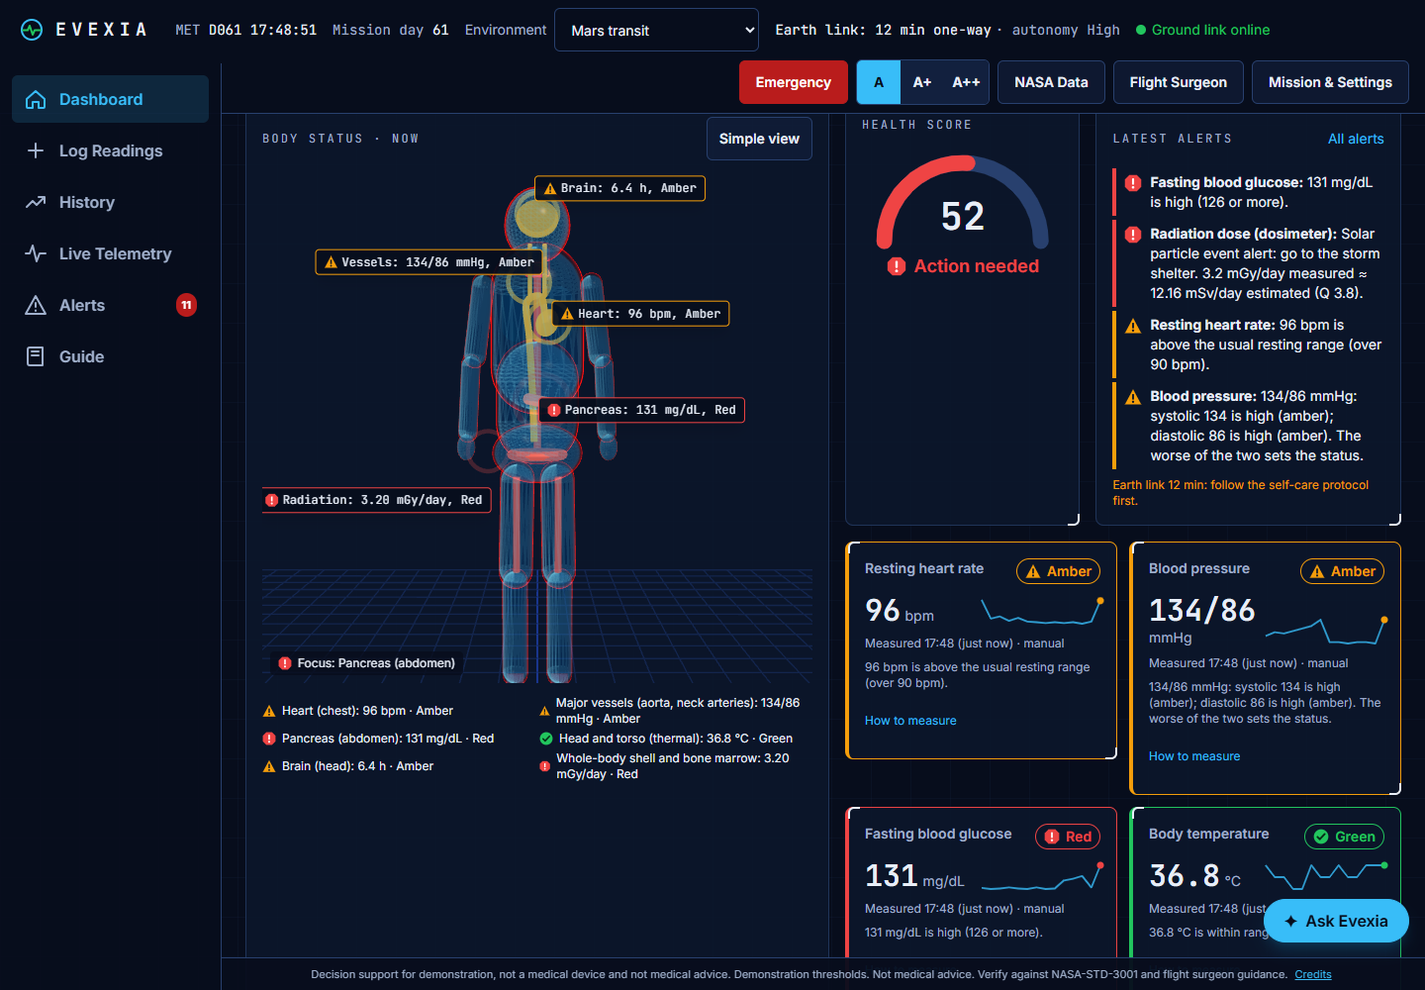
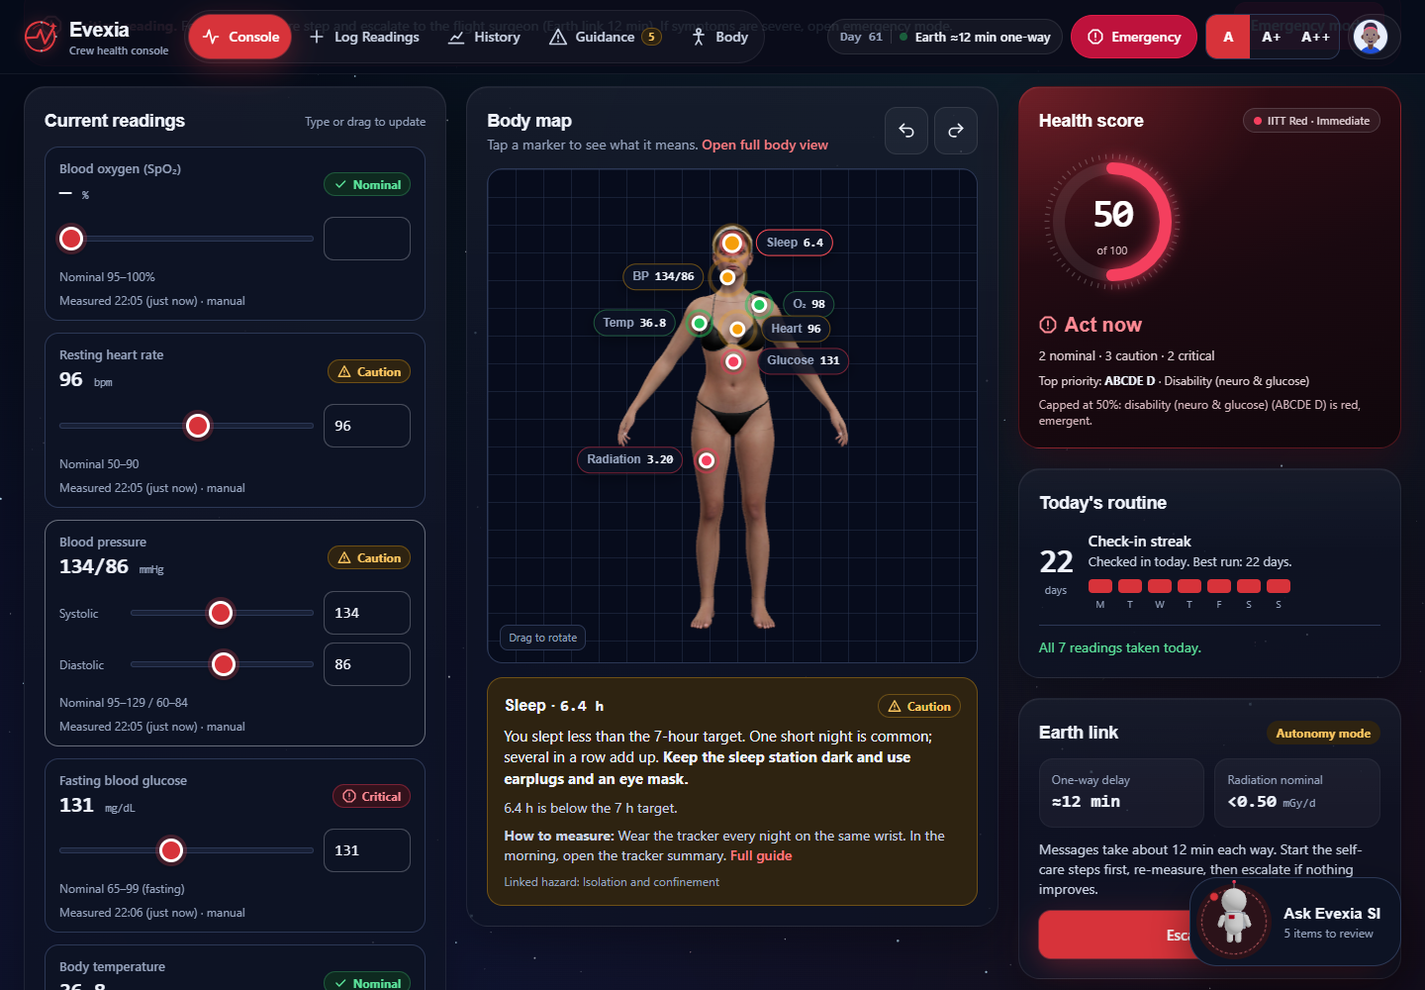
Update README with store-and-forward comms and refresh all UI screenshots

diff --git a/e2e/screenshots.spec.js b/e2e/screenshots.spec.js
@@ -1,5 +1,5 @@
 // Generates README screenshots into docs/screenshots. Run with: SCREENSHOTS=1 npx playwright test e2e/screenshots.spec.js
-import { test, expect, logReadings, GREEN } from './fixtures.js';
+import { test, expect, logReadings, signIn, signOut, GREEN } from './fixtures.js';
 
 const DIR = 'docs/screenshots';
 test.skip(!process.env.SCREENSHOTS, 'Set SCREENSHOTS=1 to regenerate README screenshots');
@@ -7,10 +7,10 @@ test.use({ viewport: { width: 1440, height: 1000 } });
 
 async function settleBody(page) {
   await expect(page.getByTestId('body-3d').locator('canvas')).toBeVisible({ timeout: 20_000 });
-  await page.waitForTimeout(7000); // camera focus eases in and back out
+  await page.waitForTimeout(5000); // camera focus eases in and back out
   await page.evaluate(() => {
     const el = document.querySelector('[data-testid="body-container"]');
-    window.scrollTo(0, el.getBoundingClientRect().top + window.scrollY - 170);
+    if (el) window.scrollTo(0, el.getBoundingClientRect().top + window.scrollY - 170);
   });
   await page.waitForTimeout(400);
 }
@@ -24,6 +24,7 @@ async function pushTelemetry(page, hr = 74) {
 }
 
 test('dashboard amber and red', async ({ page }) => {
+  await signIn(page, 'okafor');
   await logReadings(page, { ...GREEN, hr: 96, sleep: 6.4, sys: 134, dia: 86, radiation: 0.47 }, { notes: 'Morning check. Heavy workload; slept badly.' });
   await settleBody(page);
   await page.screenshot({ path: `${DIR}/dashboard-amber.png` });
@@ -32,7 +33,16 @@ test('dashboard amber and red', async ({ page }) => {
   await page.screenshot({ path: `${DIR}/dashboard-red.png` });
 });
 
+test('comms earth link', async ({ page }) => {
+  await signIn(page, 'okafor');
+  await page.goto('/comms');
+  await expect(page.getByTestId('link-panel')).toBeVisible();
+  await page.waitForTimeout(800);
+  await page.screenshot({ path: `${DIR}/comms.png` });
+});
+
 test('log readings', async ({ page }) => {
+  await signIn(page, 'okafor');
   await page.goto('/log');
   await page.getByTestId('input-hr').fill('96');
   await page.getByTestId('input-glucose').fill('130');
@@ -41,13 +51,25 @@ test('log readings', async ({ page }) => {
   await page.screenshot({ path: `${DIR}/log-readings.png` });
 });
 
-test('history', async ({ page }) => {
+test('history with redesigned log table', async ({ page }) => {
+  await signIn(page, 'okafor');
   await page.goto('/history');
+  await expect(page.getByTestId('log-table')).toBeVisible();
   await page.waitForTimeout(1200);
   await page.screenshot({ path: `${DIR}/history.png` });
+  await page.evaluate(() => {
+    const el = document.querySelector('[data-testid="log-table"]');
+    if (el) {
+      el.scrollIntoView({ behavior: 'instant', block: 'start' });
+      window.scrollBy(0, -100);
+    }
+  });
+  await page.waitForTimeout(500);
+  await page.screenshot({ path: `${DIR}/history-log.png` });
 });
 
 test('live telemetry', async ({ page }) => {
+  await signIn(page, 'okafor');
   await page.goto('/telemetry');
   await pushTelemetry(page);
   await page.waitForTimeout(1500);
@@ -55,12 +77,14 @@ test('live telemetry', async ({ page }) => {
 });
 
 test('alerts on Mars transit', async ({ page }) => {
+  await signIn(page, 'okafor');
   await logReadings(page, { ...GREEN, radiation: 0.47, hr: 96, glucose: 130 });
   await page.goto('/alerts');
   await page.screenshot({ path: `${DIR}/alerts.png` });
 });
 
-test('emergency, NASA data, guide and simple view', async ({ page }) => {
+test('emergency, NASA data, guide and surgeon', async ({ page }) => {
+  await signIn(page, 'okafor');
   await page.goto('/emergency');
   await page.getByTestId('situation-radiation').click();
   await page.screenshot({ path: `${DIR}/emergency.png` });
@@ -70,8 +94,12 @@ test('emergency, NASA data, guide and simple view', async ({ page }) => {
   await page.screenshot({ path: `${DIR}/nasa-data.png` });
   await page.goto('/guide');
   await page.screenshot({ path: `${DIR}/guide.png` });
-  await page.goto('/');
-  await page.waitForTimeout(500);
-  await page.evaluate(() => window.scrollTo(0, document.querySelector('[data-testid="body-container"]').getBoundingClientRect().top + window.scrollY - 170));
-  await page.screenshot({ path: `${DIR}/body-map.png` });
+
+  // Flight surgeon view
+  await signOut(page);
+  await signIn(page, 'surgeon');
+  await page.goto('/surgeon');
+  await expect(page.locator('main h1')).toHaveText(/Dr\. Jonas/);
+  await page.waitForTimeout(800);
+  await page.screenshot({ path: `${DIR}/surgeon.png` });
 });

diff --git a/README.md b/README.md
@@ -5,7 +5,8 @@
 **Crew health decision support that knows where you are, how far Earth is, what normal looks like *for you*, and what your wearables are saying right now.**
 
 ![Build](https://img.shields.io/badge/build-passing-22c55e)
-![Tests](https://img.shields.io/badge/tests-unit%20%7C%20api%20%7C%20e2e%20%7C%20axe-38bdf8)
+![Tests](https://img.shields.io/badge/tests-192%20unit%20%7C%2083%20api%20%7C%20Playwright%20e2e-38bdf8)
+![PWA](https://img.shields.io/badge/PWA-offline--first%20%7C%20IndexedDB-10b981)
 ![License: MIT](https://img.shields.io/badge/license-MIT-blue)
 ![NASA Space Apps 2026](https://img.shields.io/badge/NASA%20Space%20Apps-2026-0b3d91)
 
@@ -61,7 +62,8 @@ Evexia is a NASA-style crew health console. Every reading is a **timestamped log
 | | Feature | What it does |
 |---|---|---|
 | ⌚ | **Live wearable telemetry** | Pairs with real Bluetooth health devices (heart-rate straps and watches, thermometers, blood-pressure cuffs) and accepts real-time data from device gateways through an API. Samples stream live to the screen and **sync to the log** to update the evaluation. |
-| 📡 | **Comms-delay autonomy** | The Earth-link delay changes behaviour. Above 5 min the **self-care protocol comes first** and escalations say "message will arrive in X min". Short delay recommends escalating amber findings early. |
+| 📡 | **Store-and-forward Earth link** | Realistically simulates deep-space radio latency (up to 20 min one-way) and orbital blackouts. Escalation reports follow a 5-step journey (`written` → `waiting` → `in-transit` → `arrived` → `replied`). Flight surgeons reply from Earth with timestamped transmission tracking. |
+| 💾 | **Offline-first outbox & PWA** | Works 100% without an internet connection or onboard server. An IndexedDB outbox (Dexie) queues reports with client-side unique IDs, auto-syncing when connectivity resumes. 3D anatomy bodies are runtime-cached, cutting first load from 28 MB to 2.7 MB. |
 | ☢ | **Real radiation science** | Dosimeter readings are logged as measured **absorbed dose (mGy)** and converted to estimated **effective dose (mSv)** for NASA's limits (600 mSv career, 250 mSv per solar event). The app shows **real NASA RadLab measurements**, including Curiosity's solar storm on 20 May 2024, and **live solar events from NASA DONKI**. |
 | 🧬 | **Personal baseline + hazard correlation** | Readings can be judged against the astronaut's own pre-flight baseline. Rules link combinations to the five HRP hazards (e.g. short sleep + raised heart rate + 14+ days without a private conference → *isolation and confinement: behavioural health risk*). |
 
@@ -69,17 +71,18 @@ Evexia is a NASA-style crew health console. Every reading is a **timestamped log
 
 | Screen | What you get |
 |---|---|
-| **Dashboard** | Current status as of now: 3D body, six indicator cards (value, status, **when and how it was measured**, sparkline), health score, latest alerts, live-wearable strip, cumulative and solar-event dose, hazard insights and the latest log entries. Readings older than 36 h are flagged "out of date" and not counted. A red finding offers **Emergency mode**. |
+| **Console / Dashboard** | Current status as of now: 3D body, indicator cards (value, status, **when and how it was measured**, slider, live preview), health score, latest alerts, live-wearable strip, cumulative and solar-event dose, hazard insights, Earth link status pill and latest log entries. A red finding offers **Emergency mode**. |
 | **Log Readings** | **Date and time** (defaults to now; back-dating allowed, future rejected) with mission day, then each indicator with a number field **and** slider kept in sync, live status preview, the last logged value, inline validation, a **details** field (symptoms, activity, context), the solar-event flag and recent entries. |
-| **History** | Trends over the **past week, 2 weeks, 4 weeks or all**: daily health score, one chart per indicator with green/amber/red bands and shape-coded points, a **weekly summary** table (averages and amber/red counts), the full **log table** (date, time, mission day, source/device, values with status, details), a source filter, delete and **CSV export**. |
+| **History** | Trends over the **past week, 2 weeks, 4 weeks or all**: daily health score, one chart per indicator with green/amber/red bands and shape-coded points, a **weekly summary** table, and the **redesigned log table** (one column per vital reading for easy day-to-day comparison: `Oxygen`, `Heart rate`, `BP`, `Glucose`, `Temp`, `Sleep`, `Radiation`, plus `Source` with device tags, `Details`, delete action and CSV export). |
+| **Earth link (Comms)** | Deep-space communications dashboard: real-time light-speed delay, **Link up / Blackout toggle**, speed multiplier (Real-time, 30× demo speed, or Instant test mode), and **5-step store-and-forward report journey** tracking from initial draft to flight surgeon reply. |
 | **Live Telemetry** | Live tiles per metric with time, device and status; stream status; **Sync to log now** with a preview of exactly what will be logged; **auto-sync** every 15/30/60 min; **Bluetooth pairing**; gateway API instructions; devices seen. |
 | **Alerts and Guidance** | Each alert: severity, meaning, why it matters in spaceflight, recommended actions, self-care protocol (first when delay is long), countermeasure, sources, **Escalate to flight surgeon**. |
 | **Emergency mode** | One tap from the header. Earth-link timing, current readings, situation checklists (cardiac, unresponsive crewmate, low blood sugar, fever or hypothermia, radiation storm) and a **priority emergency report**; ticked steps go in as "actions taken". |
 | **NASA Data** | Live DONKI solar particle events and flares, the real Curiosity RAD storm chart, measured dose by environment (ISS, lunar orbit, Mars surface), the published limits Evexia uses, and **what is not verified**. |
-| **Escalation report** | Structured report with each reading's **measurement time and source**, severities, hazard insights, dose estimates, actions and note. Preview, copy, **.txt**, **PDF**, send. |
+| **Escalation report** | Structured report with each reading's **measurement time and source**, severities, hazard insights, dose estimates, actions and note. Preview, copy, **.txt**, **PDF**, send to Earth link queue. |
 | **Measurement Guide** | Per indicator: what it is, why it matters in space, on-board device, steps, normal range, when to worry, sources. |
-| **Flight Surgeon** | Crew status from each member's latest logs, last-log time, incoming escalations (emergencies first), mark reviewed and notes. |
-| **Mission & Settings** | Environment, Earth-link delay, crew member, mission start date, last private conference, prior career dose, telemetry key, personal baseline, accessibility. |
+| **Flight Surgeon** | Ground-station clinical overview: crew triage queue sorted by severity (IITT priority red/yellow/green), individual crew member cards with live vitals, escalation inbox with on-board vs arrival timestamps, and reply transmission. |
+| **Mission & Settings** | Environment, Earth-link delay, crew member, mission start date, last private conference, prior career dose, telemetry key, personal baseline, accessibility (dark/light, high-contrast, text sizing). |
 | **Assistant** | Docked chat. Claude via the server, or **Offline guidance mode** (rule-based). |
 
 ## 4. How it works
@@ -93,12 +96,15 @@ flowchart LR
   LIVE -->|Sync to log / auto-sync| L
   L --> E[evaluate.js<br/>latest value per indicator,<br/>stale check, sleep history]
   E --> S[severity.js + thresholds.js<br/>mGy → mSv, baseline, environment]
-  S --> SC[score.js] & HZ[hazards.js] & BODY[3D / 2D body]
-  S --> AL[Alerts + comms.js] --> REP[Escalation / emergency report]
-  L --> H[History: daily score,<br/>trends, weekly summary]
+  S --> SC[score.js] & HZ[hazards.js] & BODY[3D body]
+  S --> AL[Alerts + comms.js] --> REP[Escalation report]
+  REP --> OUTBOX[(IndexedDB Outbox<br/>Dexie offline queue)]
+  OUTBOX -->|Auto-sync when online| LINK[Earth Link Simulator<br/>Latency & Blackout Queue]
+  LINK -->|Delayed arrival| SURG[Flight Surgeon View]
+  SURG -->|Doctor reply| LINK
+  L --> H[History: daily score,<br/>trends, aligned log grid]
   DONKI[NASA DONKI] --> ND[NASA Data screen]
   RAD[NASA RadLab] --> ND
-  REP -->|POST /api/escalations| SURG[Flight surgeon view]
 ```
 
 All decision logic is in pure, unit-tested modules in `client/src/lib/` (`severity`, `score`, `hazards`, `comms`, `evaluate`, `telemetry`, `escalation`). The server imports the same modules, so it validates data and builds assistant context with exactly the rules the crew sees. The client is **offline-first**: logs save locally immediately, are marked "Not yet sent to ground", and sync when the link returns.
@@ -198,39 +204,50 @@ Reduced motion gives a static glow; software WebGL is detected and frame-capped;
 
 Above 5 minutes: self-care protocol first, escalation marked "message will arrive in X min", emergency mode says not to wait for a reply.
 
+### Store-and-forward Earth link simulator
+Inspired by NASA's Delay/Disruption Tolerant Networking (DTN) architecture, Evexia models deep-space communications with realistic latency and intermittent connectivity:
+- **Link Up / Blackout Switch**: Simulate direct line-of-sight vs planetary/orbital occlusion. During a blackout, outgoing reports wait in onboard storage; packets already in flight continue moving.
+- **Speed Multiplier**: Toggle between **Real time** (true light-speed propagation, e.g. 12 minutes to Mars), **Demo mode** (30× accelerated, so a 12-minute transit takes 24 seconds), or **Instant** for automated testing.
+- **Five-stage report lifecycle**:
+  1. `Written on board`: Logged and signed by crew.
+  2. `Waiting for link`: Held in device outbox if link is down or server unreachable.
+  3. `Travelling to Earth`: In transit over deep-space link with live countdown.
+  4. `Arrived on Earth`: Received and acknowledged by mission control.
+  5. `Surgeon replied`: Flight surgeon response travels back to crew and marks the loop closed.
+
 ## 11. AI assistant
 
 `POST /api/assistant` calls the **Claude API** through the official Anthropic SDK (key server-side only, `ANTHROPIC_MODEL` default `claude-sonnet-5-5`, capped `max_tokens`, low effort, rate-limited). The server recomputes severities from raw readings and sends environment, delay, mission day and per-indicator status, including the mGy → mSv conversion. Safety rules: plain language, practical self-care, **never diagnose**, **always escalate red**, respect comms delay, flag emergencies, no invented numbers. Refusals, missing key, network or API errors all fall back to the **rule-based guidance** (badge: *Offline guidance mode*).
 
 ## 12. Accessibility
 
-44 px touch targets; high-contrast theme; three text sizes; full keyboard navigation with visible focus and a skip link; landmarks and labels; status by colour + shape + text everywhere (cards, tables, charts, body); reduced motion; screen-reader body summary and chart summaries; `aria-live` updates. **axe-core: zero serious or critical violations** on all 11 screens, in high-contrast mode and with the assistant open; no horizontal scroll at 360/768/1440 px.
+44 px touch targets; high-contrast theme; three text sizes; full keyboard navigation with visible focus and a skip link; landmarks and labels; status by colour + shape + text everywhere (cards, tables, charts, body); reduced motion; screen-reader body summary and chart summaries; `aria-live` updates. **axe-core: zero serious or critical violations** on all screens, including the redesigned wide log table, in high-contrast mode and with the assistant open; no horizontal scroll at 360/768/1440 px.
 
 ## 13. Tech stack and project structure
 
-**Frontend:** React 18, Vite 5, Tailwind CSS 3, React Router 6, Zustand 4, Recharts 2, three.js + @react-three/fiber + drei, Web Bluetooth, EventSource, jsPDF (lazy).
-**Backend:** Node.js + Express 4, Server-Sent Events, express-rate-limit, Anthropic TypeScript SDK, SQLite via **better-sqlite3** (automatic fallback to `node:sqlite`).
-**Testing:** Vitest (unit + API with supertest), Playwright (e2e), @axe-core/playwright.
+**Frontend:** React 18, Vite 5, Tailwind CSS 3, React Router 6, Zustand 4, Recharts 2, three.js + @react-three/fiber + drei, Dexie 4 (IndexedDB persistent outbox), vite-plugin-pwa (Workbox offline service worker), Web Bluetooth, EventSource, jsPDF (lazy).  
+**Backend:** Node.js + Express 4, Server-Sent Events, express-rate-limit, Anthropic TypeScript SDK, SQLite via **better-sqlite3** (automatic fallback to `node:sqlite`).  
+**Testing:** Vitest (unit + API with supertest), Playwright (e2e, comms, pwa), @axe-core/playwright.
 
 ```
 evexia/
 ├─ README.md · TEST_REPORT.md · .env.example · render.yaml · playwright.config.js · LICENSE
 ├─ client/src/
-│  ├─ routes/       Dashboard, LogReadings, History, Telemetry, Alerts, Guide, Emergency,
-│  │                NasaData, Settings, Surgeon, Credits
+│  ├─ routes/       Dashboard, LogReadings, History, Comms, Telemetry, Alerts, Guide, Emergency,
+│  │                NasaData, Settings, Surgeon (Overview, CrewDetail, Escalations), Credits
 │  ├─ components/   Body3D, Body2D, BodyView, IndicatorCard, LogTable, TrendChart, ScoreGauge,
 │  │                AlertCard, HazardPanel, EscalationDialog, AssistantPanel, Layout, …
 │  ├─ lib/          severity, score, hazards, comms, evaluate, telemetry, bluetooth,
-│  │                escalation, ruleAssistant, format, api
+│  │                escalation, outbox (Dexie), ruleAssistant, format, api
 │  ├─ hooks/        useTelemetry (SSE stream, auto-sync)
 │  ├─ config/thresholds.js · content/ (guide, guidance, hazards) · store/useHealthStore.js
-│  └─ tests/        Vitest unit tests (client/tests)
+│  └─ tests/        Vitest unit tests (outbox, evaluate, severity, score, triage, etc.)
 ├─ server/
-│  ├─ index.js · app.js · seed.js · db/ (schema, repository) · lib/ (assistant, spaceWeather, sampleLogs)
+│  ├─ index.js · app.js · seed.js · db/ (schema, repository) · lib/ (assistant, spaceWeather, sampleLogs, commsLink)
 │  ├─ scripts/      fetch-nasa-data.js (RadLab + DONKI), simulate-wearable.js
 │  ├─ data/nasa/    radlab-msl-mars-may2024.json, radlab-reference.json, donki-snapshot.json
-│  └─ tests/api.test.js
-├─ e2e/             evexia.spec.js, a11y.spec.js, screenshots.spec.js, global-setup.js
+│  └─ tests/        api.test.js, link.test.js
+├─ e2e/             evexia.spec.js, comms.spec.js, pwa.spec.js, a11y.spec.js, screenshots.spec.js
 └─ docs/screenshots/
 ```
 
@@ -279,23 +296,25 @@ Then open the public URL in a private window and request **FortiGuard Web Filter
 ## 16. Testing
 
 ```bash
-npm run test:unit     # 133 tests: thresholds, severity, mGy→mSv, score, hazards, comms, log evaluation,
-                      #            history series, BLE parsers, telemetry sync, assistant, reports
-npm run test:api      # 46 tests: every route incl. telemetry ingest/auth, SSE stream, DONKI (mocked + fallback), RadLab
-npm run test:e2e      # builds the client, starts a fresh single-host server, runs e2e + axe + responsive + perf
+npm run test:unit     # 192 tests: thresholds, severity, mGy→mSv, score, hazards, comms, log evaluation,
+                      #            history series, BLE parsers, telemetry sync, assistant, outbox, triage
+npm run test:api      # 83 tests: every route incl. link latency simulator, outbox deduplication,
+                      #           telemetry ingest/auth, SSE stream, DONKI (mocked + fallback), RadLab
+npm run test:e2e      # builds the client, starts single-host server, runs e2e + comms + pwa + axe
 ```
 
-Every e2e test also fails on any browser console error. On Windows the tests use full Chromium with the real GPU (`E2E_GPU=0` forces software WebGL). Regenerate screenshots with `SCREENSHOTS=1 npx playwright test e2e/screenshots.spec.js`. See **[TEST_REPORT.md](TEST_REPORT.md)**.
+Every e2e test fails on any browser console error. On Windows the tests run with Chromium. Regenerate screenshots with `$env:SCREENSHOTS="1"; npx playwright test e2e/screenshots.spec.js`. See **[TEST_REPORT.md](TEST_REPORT.md)**.
 
 ## 17. Screenshots
 
 | | |
 |---|---|
-| ![Dashboard amber](docs/screenshots/dashboard-amber.png) Status: amber heart, vessels, brain | ![Dashboard red](docs/screenshots/dashboard-red.png) Solar particle event and high glucose |
-| ![Live telemetry](docs/screenshots/telemetry.png) Live wearable telemetry and Sync to log | ![History](docs/screenshots/history.png) History: weekly trends and log |
-| ![Log readings](docs/screenshots/log-readings.png) Log entry with date, time and details | ![Alerts](docs/screenshots/alerts.png) Alerts: self-care first on Mars transit |
-| ![NASA data](docs/screenshots/nasa-data.png) Real NASA data: DONKI and Curiosity RAD | ![Emergency](docs/screenshots/emergency.png) Emergency mode |
-| ![Guide](docs/screenshots/guide.png) Measurement Guide | ![Simple view](docs/screenshots/simple-view.png) 2D simple view |
+| ![Dashboard amber](docs/screenshots/dashboard-amber.png)<br/>**Console Dashboard (Amber Alert)**: Spaceflight vitals, 3D body markers, Earth link pill | ![Dashboard red](docs/screenshots/dashboard-red.png)<br/>**Console Dashboard (Red / Solar Event)**: Critical glucose, dosimeter alarm, emergency link |
+| ![Earth link comms](docs/screenshots/comms.png)<br/>**Earth Link & Store-and-Forward**: Deep-space latency, blackout switch, 5-stage report journey | ![History log](docs/screenshots/history-log.png)<br/>**History (Redesigned Log Table)**: One aligned column per reading, warning badges, source details |
+| ![History trends](docs/screenshots/history.png)<br/>**History (Trends & Scores)**: 14-day trends with nominal/caution bands, shape-coded data points | ![Flight surgeon](docs/screenshots/surgeon.png)<br/>**Flight Surgeon View**: Crew triage queue, individual vital snapshots, escalation replies |
+| ![Log readings](docs/screenshots/log-readings.png)<br/>**Log Readings**: 7 vital inputs with sliders, live status previews and notes | ![Live telemetry](docs/screenshots/telemetry.png)<br/>**Live Wearables**: Bluetooth BLE stream, gateway ingest, and Sync to Log |
+| ![Alerts](docs/screenshots/alerts.png)<br/>**Alerts & Guidance**: Self-care protocol first under Mars transit delay, hazard insights | ![Emergency](docs/screenshots/emergency.png)<br/>**Emergency Mode**: Rapid action checklists, priority telemetry and ground escalation |
+| ![NASA data](docs/screenshots/nasa-data.png)<br/>**Real NASA Science**: Live DONKI space weather and Curiosity RAD 2024 storm data | ![Guide](docs/screenshots/guide.png)<br/>**Measurement Guide**: Standard procedures, clinical limits, and on-board hardware steps |
 
 ## 18. Limitations
 
@@ -305,12 +324,22 @@ Every e2e test also fails on any browser console error. On Windows the tests use
 - Web Bluetooth works in Chrome/Edge (desktop, Android) only and was verified with byte-level parser tests, not with physical devices during the build. Proprietary-only devices need a gateway.
 - The brief's "HR 108 → amber" conflicts with its own table (> 100 = red); Evexia follows the table.
 - The Claude path is verified with mocked SDK responses and an unreachable-endpoint test, not live (no key during the build).
-- No authentication on the flight-surgeon view; telemetry auth is a shared key (demo scope).
+- Telemetry ingest authentication is a shared gateway key (demo scope).
 - The sample history (21 days) is generated and tagged *Sample data*; delete it from History or seed with `SEED_DAYS=0`.
 
 ## 19. Roadmap
 
-Per-device pairing records and wearable vendor integrations (Apple HealthKit, Garmin, Oura via gateway) · SpO₂, HRV and skin temperature · crew authentication and ground sync · mood and cognitive checks · anatomy GLB · multi-language UI · PWA with background sync.
+**Shipped in v1.1:**
+- PWA with offline Service Worker and runtime caching for 3D body models (saving ~25 MB on first visit).
+- Offline-first IndexedDB outbox (Dexie) with client-side unique identifiers and automatic link reconnect sync.
+- Store-and-forward Earth link communication simulator (light-speed latency, blackout toggle, 5-step report journey).
+- Redesigned History log table with aligned columns for each vital reading and severity badges.
+- Crew and Flight Surgeon authentication with distinct permissions and full crew triage overview.
+
+**Future iterations:**
+- Hardware pairing records and third-party health integrations (Apple HealthKit, Garmin Health, Oura API via gateway).
+- Direct SpO₂, HRV and continuous skin temperature streaming.
+- Multi-language crew interface and localized emergency checklists.
 
 ## 20. Sources and references
 
